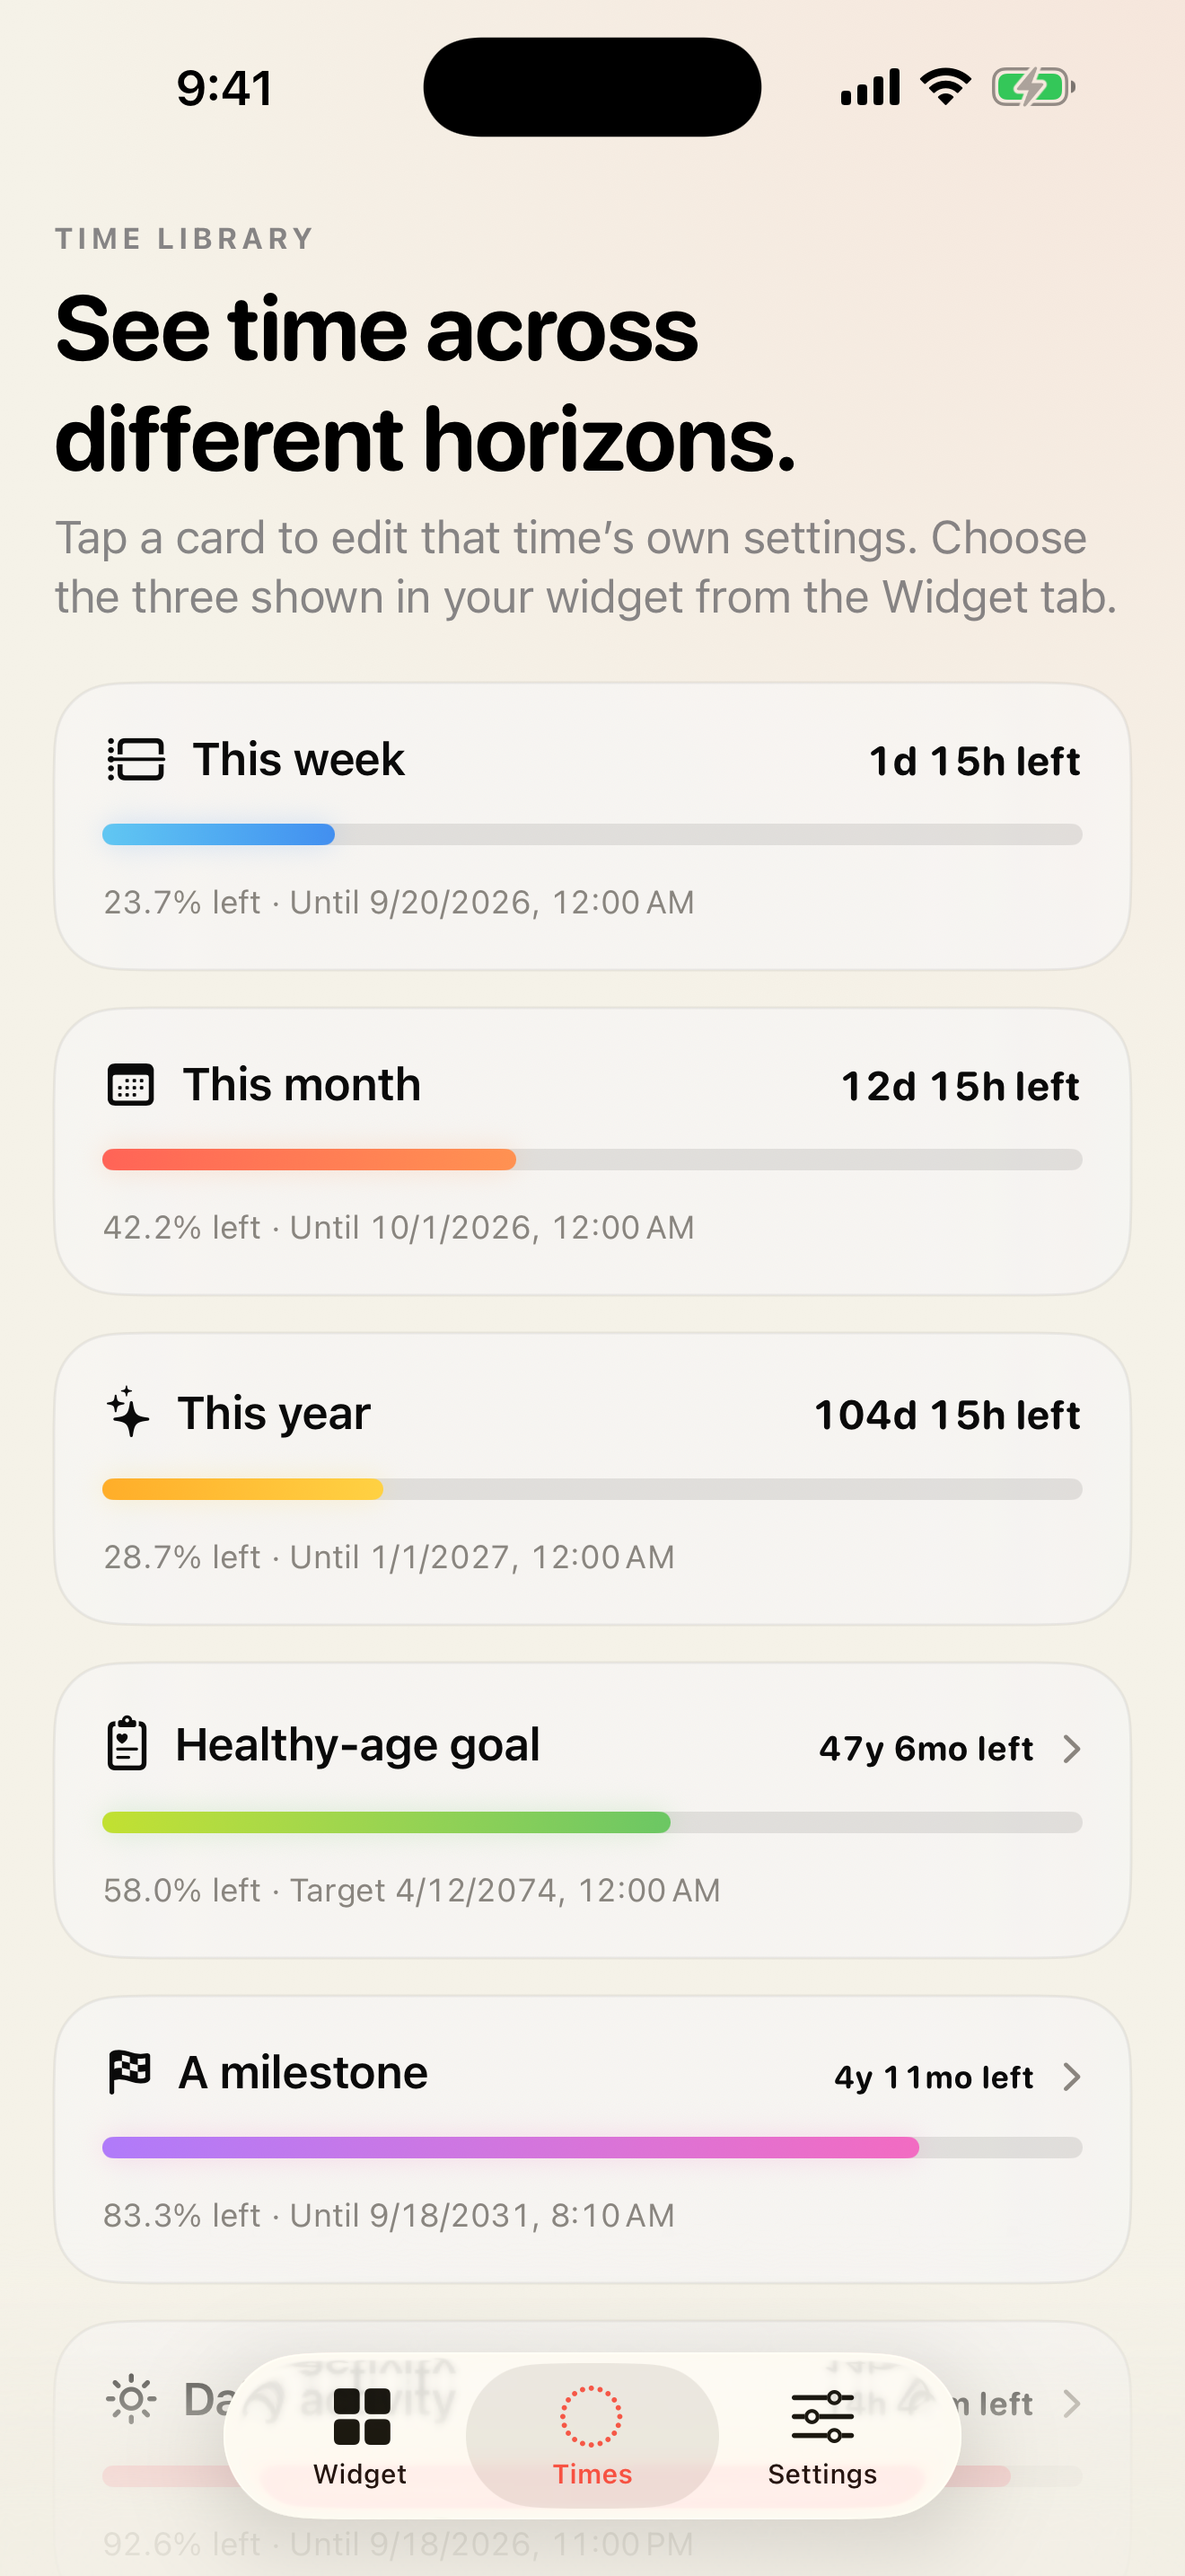
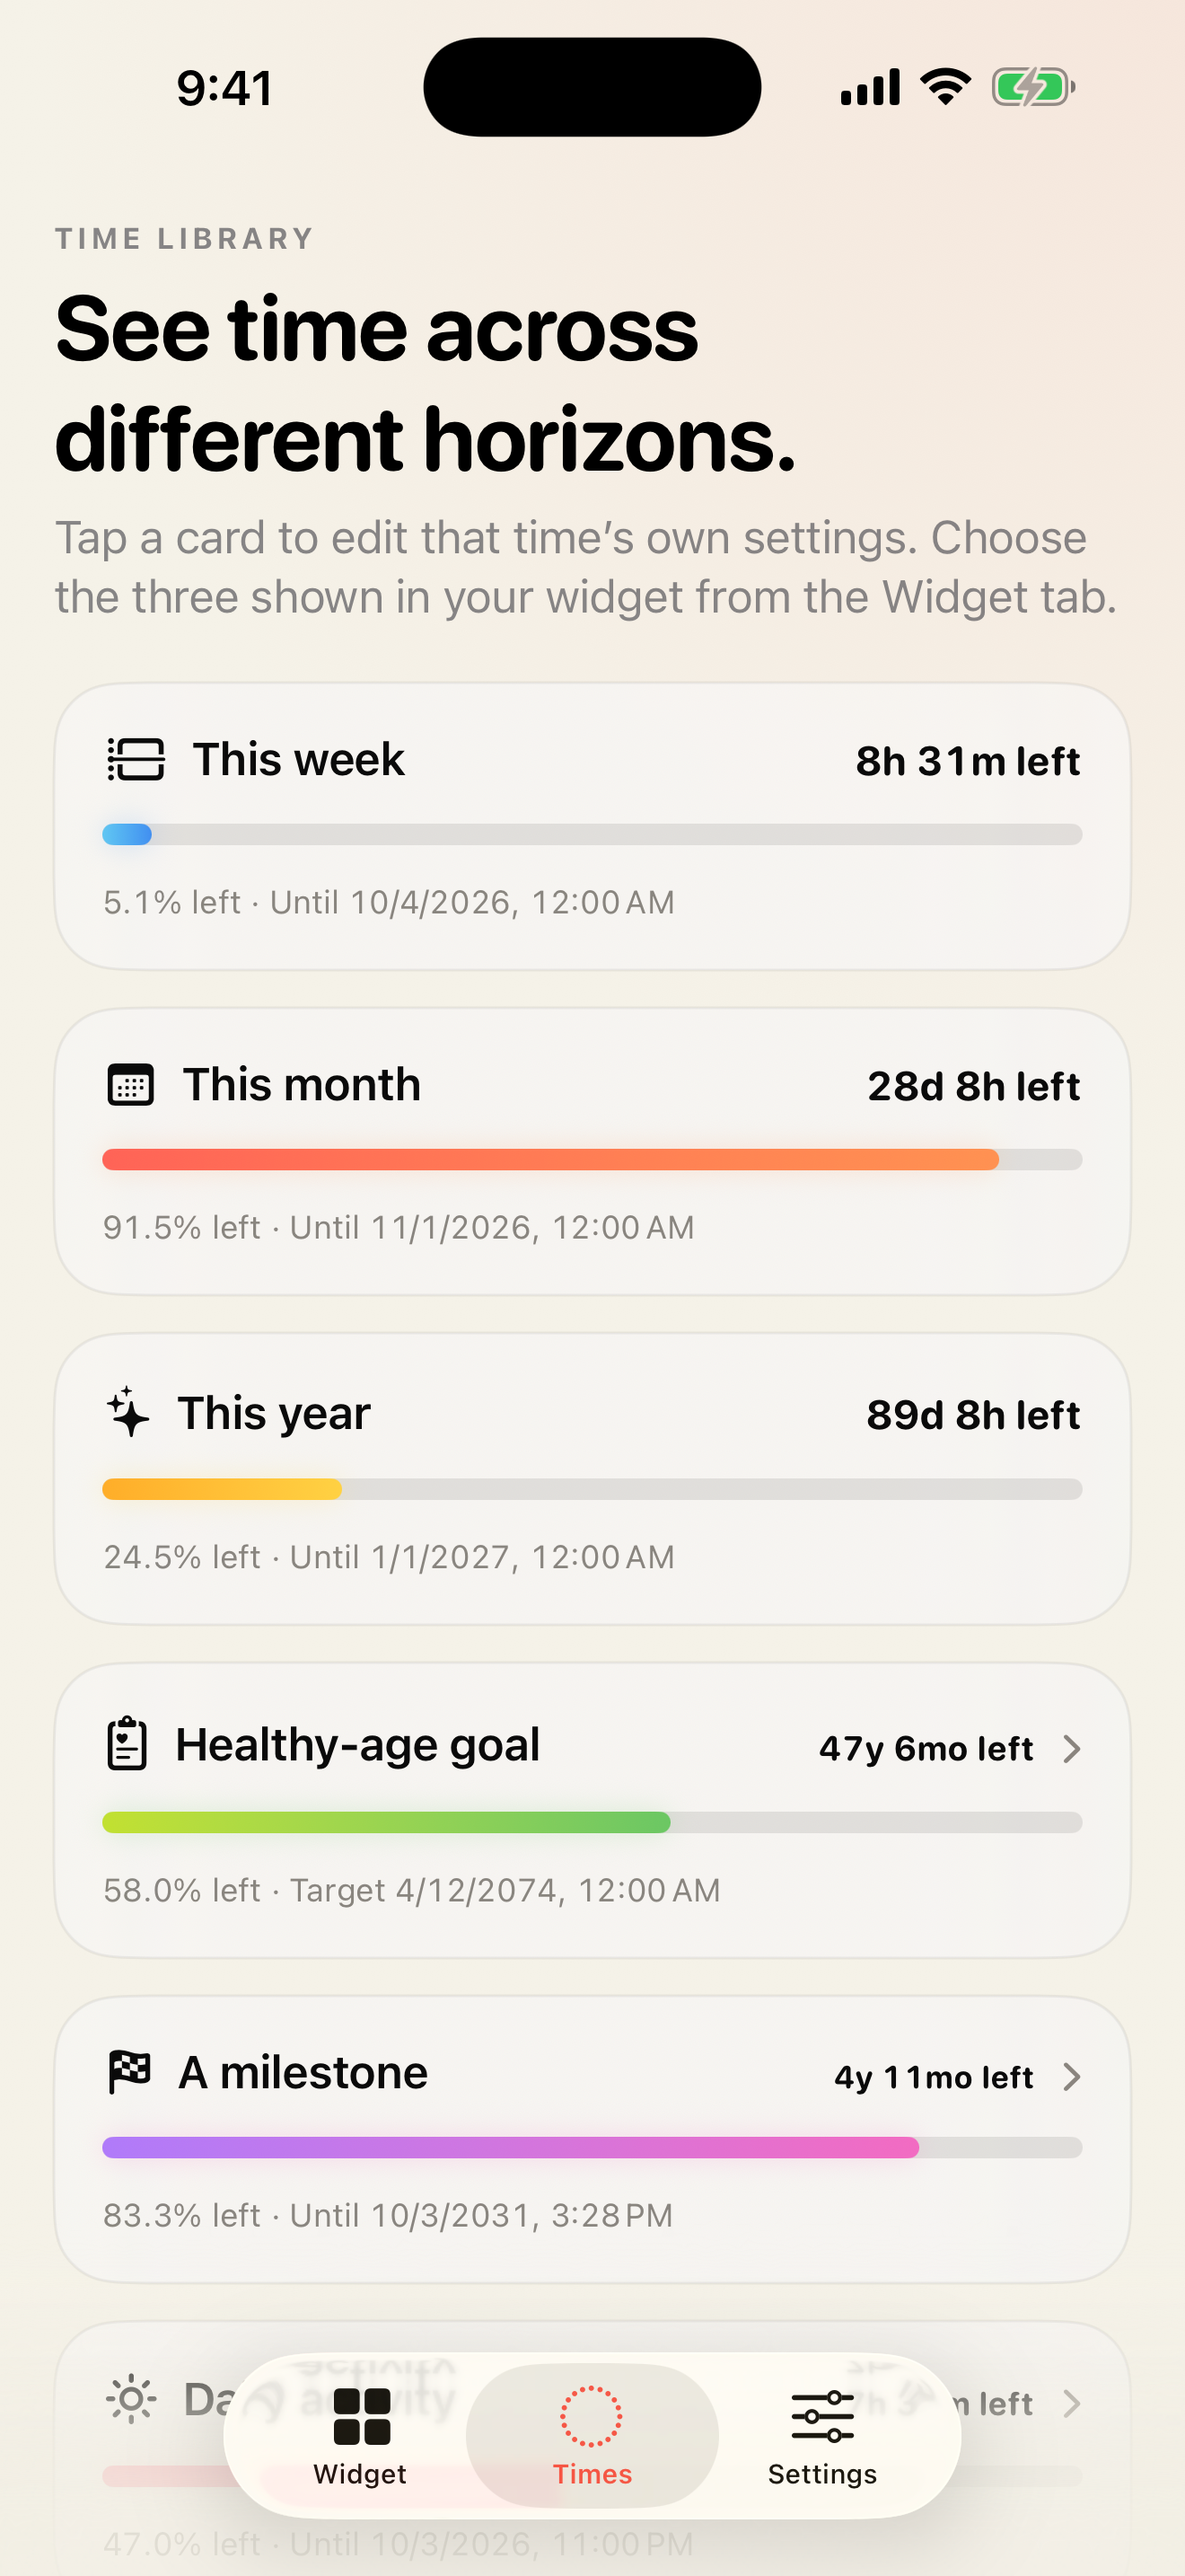
Refresh iOS 0.1.8 App Store screenshots

diff --git a/AppStore/README.md b/AppStore/README.md
@@ -40,7 +40,9 @@ On 2026-09-06 at 19:04 JST, final **Submit for Review** succeeded for iOS 0.1.3 
 
 Generate fresh iPhone / iPad screenshots with `./Scripts/capture-store-screenshots.sh`. The capture workflow requires ImageMagick 7. If CoreSimulator is usable but `simctl bootstatus` is stalled by an OS migrator, set `DAYSYET_SCREENSHOT_SKIP_BOOTSTATUS=1` only after confirming the simulator Home Screen is responsive.
 
-The existing iOS submission assets contain seven screenshots per locale/device folder, 28 total, recaptured for 0.1.7 (11). They show remaining-time bars, combined countdown, Times, Settings, the separate work-hours editor, study-day editor, and study-day widget preview. iPhone images are 1320 × 2868 and iPad images are 2064 × 2752, RGB without alpha, using fictional data. See [the 0.1.7 capture record](releases/0.1.7.md) for provenance and its store-upload gap. Checks and refreshed captures for 0.1.8 will be recorded after completion in [the current release record](releases/0.1.8.md). The public site's older marketing screenshots remain separate from these submission assets.
+The current iOS submission assets contain seven screenshots per locale/device folder, 28 total, recaptured on 2026-10-03 from the 0.1.8 (12) Debug build with Xcode 26.6 on dedicated disposable iOS 26.5 simulators: iPhone 17 Pro Max and iPad Pro 13-inch (M5). The capture script used DEBUG-only fictional profiles, light appearance, and a 9:41 status bar. The images show remaining-time bars, combined countdown, Times, Settings, the separate work-hours editor, study-day editor, and study-day widget preview. iPhone images are 1320 × 2868 and iPad images are 2064 × 2752, 8-bit RGB without alpha. All 28 Japanese/English images passed visual review, PNG CRC checks, and pixel-exact comparison to the native originals after alpha removal; Settings shows 0.1.8 (12). Native originals are retained outside the public checkout. The [SHA-256 manifest](screenshots/SHA256SUMS) identifies the submission files; run `shasum -a 256 -c SHA256SUMS` from `AppStore/screenshots` to verify them.
+
+These app captures do not establish native Four circles WidgetKit gallery/hosting verification, store upload, or review submission; those checks remain recorded separately in [the current release record](releases/0.1.8.md). The [0.1.7 capture record](releases/0.1.7.md) remains historical, and the public site's older marketing screenshots remain separate from these submission assets.
 
 Mac screenshots are saved under `macos/screenshots/<locale>/`: seven images per locale, 14 total, all recaptured on 2026-09-13 from the tested macOS 0.1.6 (10) Debug build. They show remaining-time circles, shrinking bars, current settings, and fictional study plans. Native 100%, 0%, and Off states were also verified. See [the Mac screenshot record](macos/screenshots/README.md) for capture isolation, source provenance, and pixel verification. Screenshot preparation does not establish upload or review submission. [Apple’s screenshot specifications](https://developer.apple.com/help/app-store-connect/reference/app-information/screenshot-specifications/) require Mac images with a 16:10 aspect ratio and no alpha channel.
 
